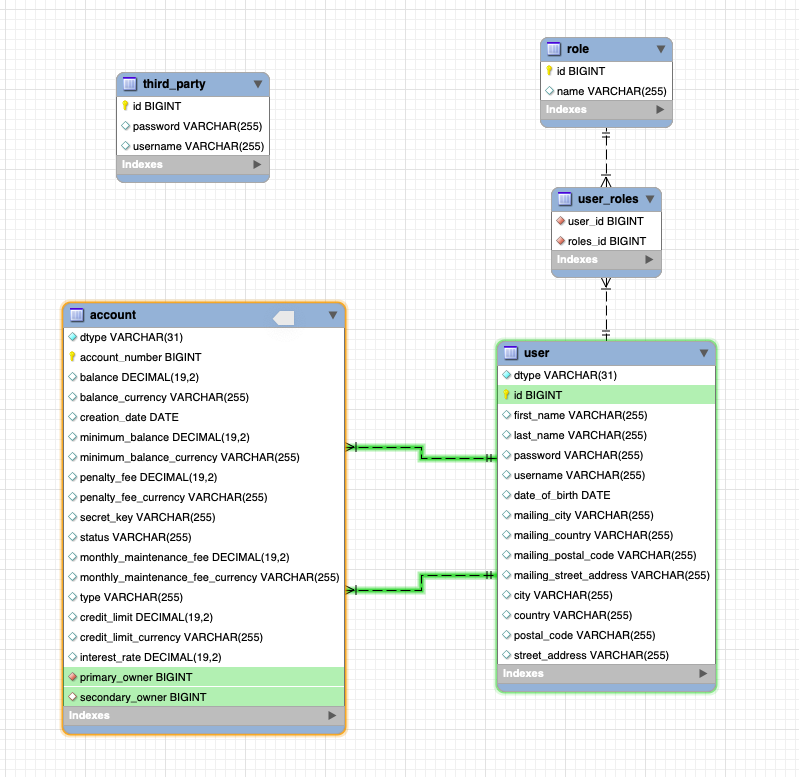
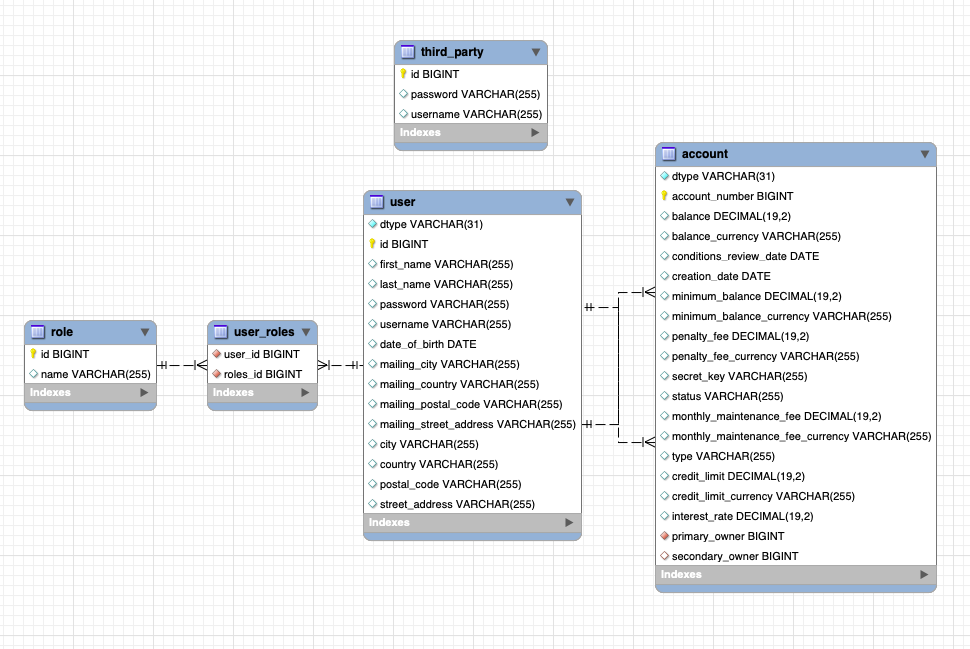
Updates readme and images

diff --git a/README.md b/README.md
@@ -47,13 +47,13 @@ This is an API for a banking system where registered users can log in, access th
 
 **Admin users** are the ones who can create new accounts and modify their properties freely, change their balance or delete them.
 They can also create new users, who can be new admin users or account holders.
-Admins can also store in the database third party users.
+Admins can also store in the database third party users (external users, stores, services, etc. that might charge or refund amounts to accounts).
 
 **Account holders** can be primary or secondary owners of any type of account. 
 Once logged in, they can access the information of their own accounts and transfer money from them to any other account in the DB.
 
-**Third Party** users can charge and make refunds to accounts as long as they are registered in the database and provide the account number and secret key.
-These users will not own any accounts or have a role, and will just provide a username and a password.
+**Third Party** users can charge or make refunds to accounts as long as they are registered in the database and provide the account number and secret key.
+These users will not own any accounts or have a role. When created, they will just provide a username and a password to be stored in the DB.
 They do not log in, and can not get any information from other users or accounts.
 
 Available account types:
@@ -66,7 +66,7 @@ Once the owner becomes 24, conditions will be updated and maintenance fee will b
 
 **Credit Card accounts** have a minimum balance according to their credit limit, and an interest rate that is deducted automatically once a month if balance is negative.
 
-**Penalty fees** are applied if an account's balance goes below it's minimum balance.
+**Penalty fees** are applied if an account's balance goes below the minimum balance.
 
 <br/>
 
@@ -316,9 +316,9 @@ Once the owner becomes 24, conditions will be updated and maintenance fee will b
 ## Interest and fees
 ### Interest and Fees are applied automatically every time an account is accessed by AccountService methods
 
-- **Monthly maintenance fee:** reviewed any time an account is accessed and applied if appropriate through checkMaintenance() method.
+- **Monthly maintenance fee:** reviewed any time an account is accessed and applied if appropriate through checkConditions() method.
+- **Interests:** reviewed any time an account is accessed and applied if appropriate through checkConditions() method. It will check the type of the account and the date of the last review.
 - **Penalty fee:** applied any time the balance of an account goes below the minimum through applyPenaltyFeeIfApplicable() method. Previously we check if it has been already applied through checkPenaltyAlreadyApplied() method, so it is not applied twice.
-- **Interests:** reviewed any time an account is accessed and applied if appropriate through checkInterestRates() method. It will check the type of the account and the date of the last review.
 
 ***
 
